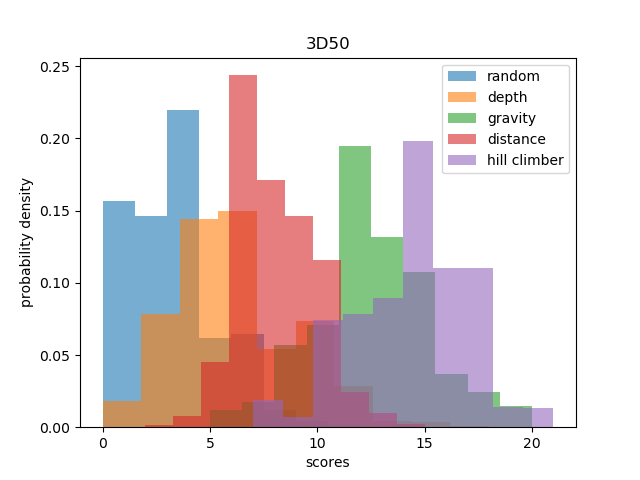
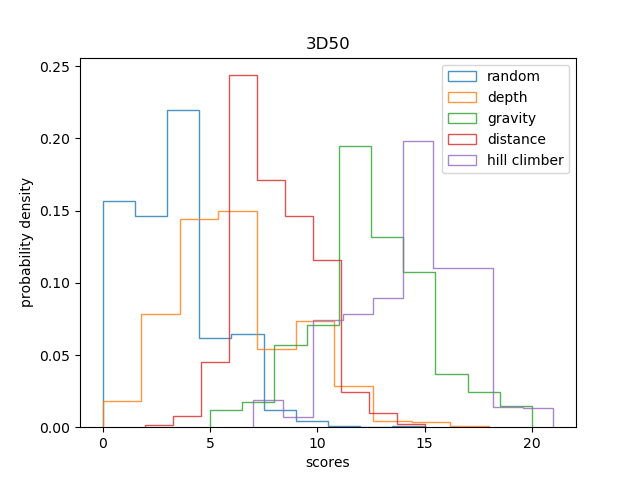
experiment prototype

diff --git a/plot_all.py b/plot_all.py
@@ -24,11 +24,12 @@ fig, ax = plt.subplots()
 plt.title("3D50")
 plt.xlabel("scores")
 plt.ylabel("probability density")
-l0 = ax.hist(scores_random, bins = 10, density = True, label = 'random', alpha = 0.6)
-l3 = ax.hist(scores_depth, bins = 10, density = True, label = 'depth', alpha = 0.6)
-l2 = ax.hist(scores_gravity, bins = 10, density = True, label = 'gravity', alpha = 0.6)
-l1 = ax.hist(scores_distance, bins = 10, density = True, label = 'distance', alpha = 0.6)
-l4 = ax.hist(scores_hill_climber, bins = 10, density = True, label = 'hill climber', alpha = 0.6)
+kwargs = dict(histtype = 'step', density = True, alpha = 0.8, bins = 10)
+l0 = ax.hist(scores_random, label = 'random', **kwargs)
+l3 = ax.hist(scores_depth, label = 'depth', **kwargs)
+l2 = ax.hist(scores_gravity, label = 'gravity', **kwargs)
+l1 = ax.hist(scores_distance, label = 'distance', **kwargs)
+l4 = ax.hist(scores_hill_climber, label = 'hill climber', **kwargs)
 # l5 = ax.hist(scores_hill_climber_gravity, density = True, label = 'hill climber gravity', alpha = 0.5)
 # l6 = ax.hist(scores_simulated_annealing, density = True, label = 'simulated annealing', alpha = 0.6)
 ax.legend(loc='upper right')
